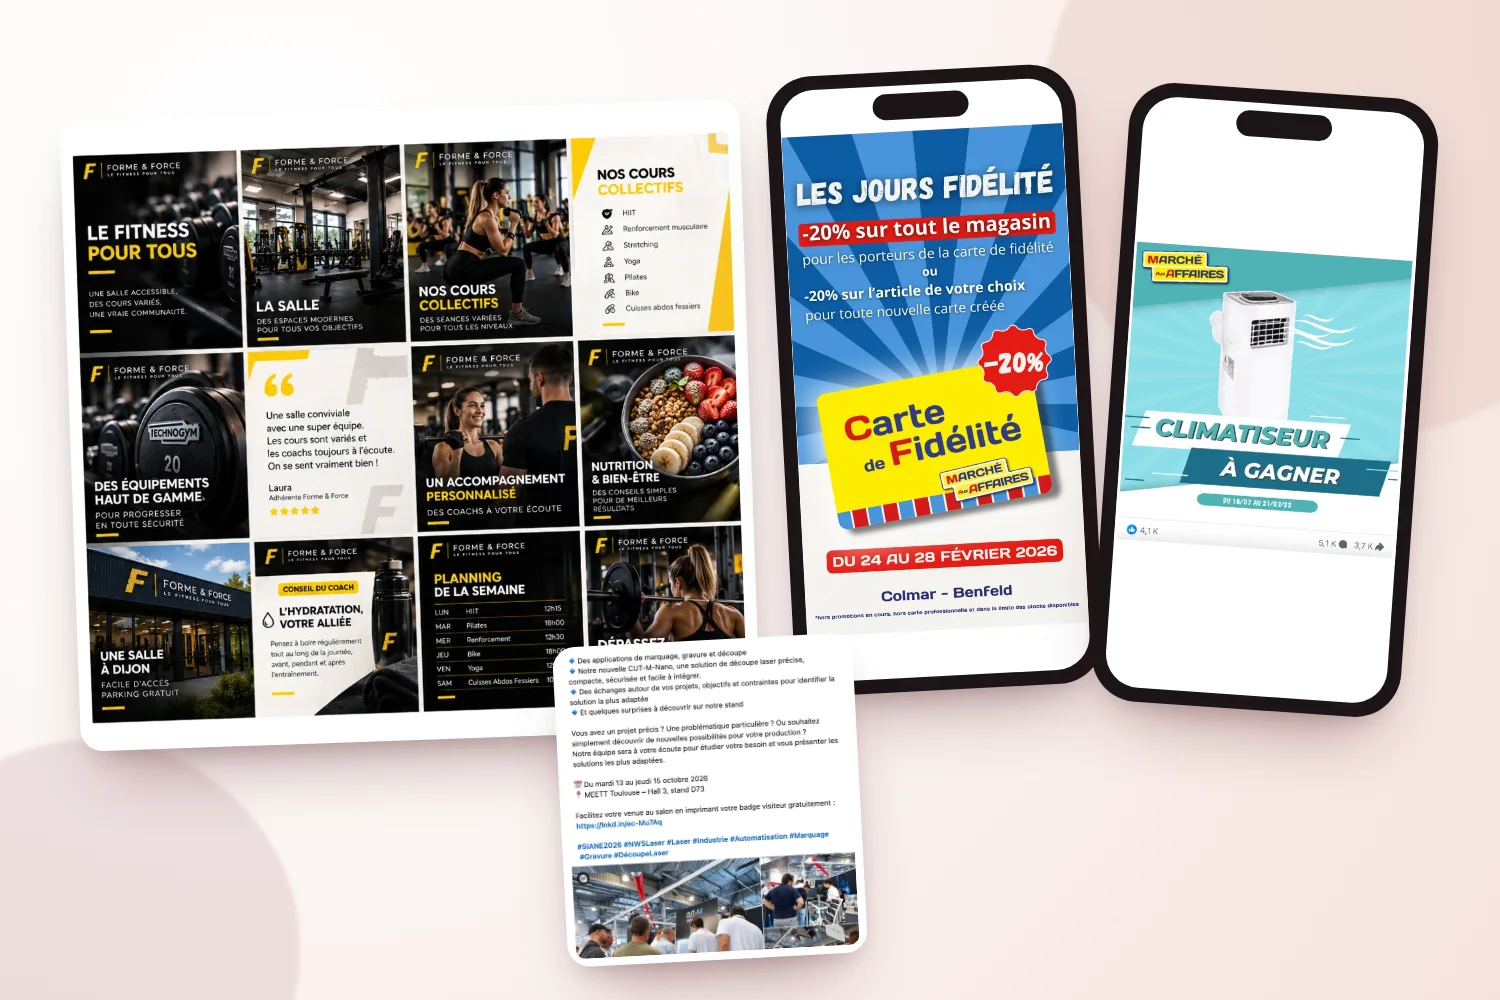
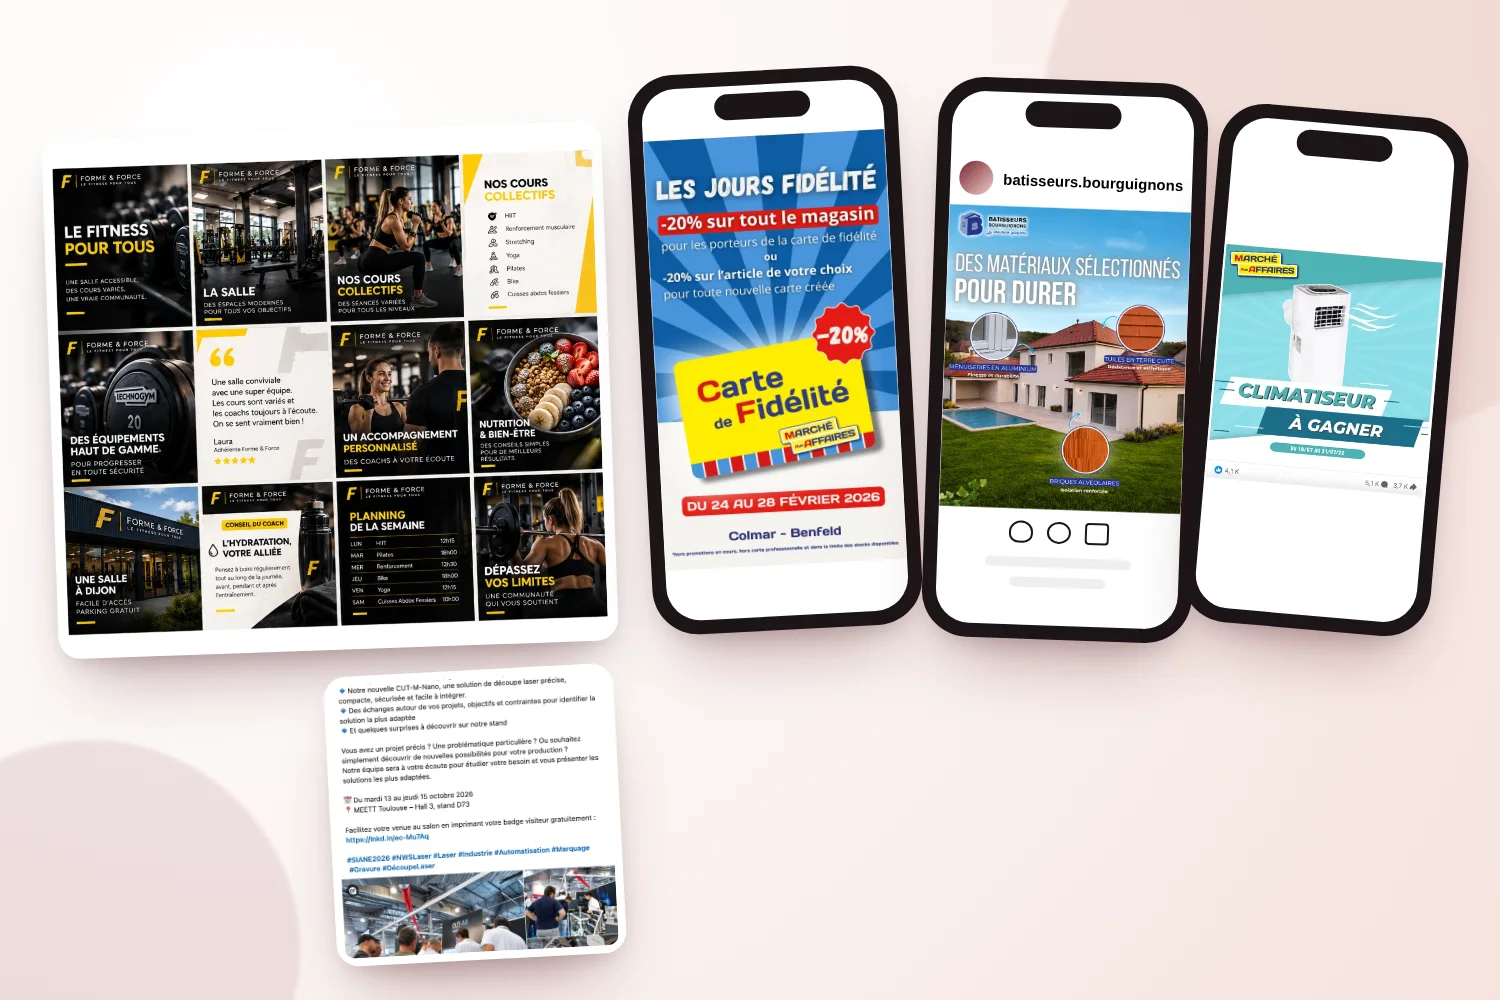
Campagnes : encart presse, flyer et Google Ads ; post Bâtisseurs dans Réseaux sociaux
Claude-Session: https://claude.ai/code/session_01ChKnf7MBQ7UGRg99UEPnwq

diff --git a/index.html b/index.html
@@ -806,7 +806,7 @@ blockquote footer b{display:block;color:var(--encre);font-weight:500;font-size:1
   <section class="bloc" id="realisations">
     <div class="wrap">
       <div class="entete-bloc"><div><p class="surtitre">Sur le terrain</p><h2>Mes missions</h2></div><p class="chapo" style="margin:0">Chaque case regroupe un type de mission. Cliquez pour voir le détail par entreprise.</p></div>
-      <div class="mosaique"><button class="projet" type="button" data-projet="social"><span class="plus-ico" aria-hidden="true">+</span><div class="visuel img"><picture><source media="(max-width:600px)" srcset="img/missions/mission-reseaux-sociaux-m.webp"><img src="img/missions/mission-reseaux-sociaux.webp" alt="Grille Instagram de Forme &amp; Force, story et jeu-concours du Marché aux Affaires, publication LinkedIn de NWS Laser" loading="lazy"></picture></div><div class="bas"><div><span class="type-mission">Réseaux sociaux</span><h3>Contenus et animation de communauté</h3><p class="realis">Templates Instagram Forme &amp; Force · Story « Jours fidélité » et jeu-concours Marché aux Affaires · Post LinkedIn NWS Laser</p></div></div></button><button class="projet" type="button" data-projet="campagnes"><span class="plus-ico" aria-hidden="true">+</span><div class="visuel img"><picture><source media="(max-width:600px)" srcset="img/missions/mission-campagnes-m.webp"><img src="img/missions/mission-campagnes.webp" alt="Publicité Meta Ads, encart presse et flyers des Bâtisseurs Bourguignons, flyers de l&#x27;agence AXA" loading="lazy"></picture></div><div class="bas"><div><span class="type-mission">Campagnes publicitaires</span><h3>Pub digitale et print</h3><p class="realis">Publicité Meta Ads, encart presse et flyers Bâtisseurs Bourguignons · Flyers AXA</p></div></div></button><button class="projet" type="button" data-projet="site"><span class="plus-ico" aria-hidden="true">+</span><div class="visuel img"><picture><source media="(max-width:600px)" srcset="img/missions/mission-site-web-m.webp"><img src="img/missions/mission-site-web.webp" alt="Site des Bâtisseurs Bourguignons, landing page et publication sur la fiche Google" loading="lazy"></picture></div><div class="bas"><div><span class="type-mission">Site web et SEO</span><h3>Un site conçu de A à Z</h3><p class="realis">Site des Bâtisseurs Bourguignons, créé de A à Z · Landing page · Posts fiche Google · Site d&#x27;une auto-entrepreneuse</p></div></div></button><button class="projet" type="button" data-projet="evenementiel"><span class="plus-ico" aria-hidden="true">+</span><div class="visuel img"><picture><source media="(max-width:600px)" srcset="img/missions/mission-evenementiel-m.webp"><img src="img/missions/mission-evenementiel.webp" alt="Visiteurs et stand des Bâtisseurs Bourguignons, dossier du team building et affiche du salon Micronora" loading="lazy"></picture></div><div class="bas"><div><span class="type-mission">Événementiel et partenariats</span><h3>Salons et événements réseau</h3><p class="realis">Salons de l&#x27;habitat Bâtisseurs Bourguignons · Team building Marché aux Affaires · Salon Micronora NWS Laser</p></div></div></button><button class="projet" type="button" data-projet="videos"><span class="plus-ico" aria-hidden="true">+</span><div class="visuel img"><picture><source media="(max-width:600px)" srcset="img/missions/mission-videos-m.webp"><img src="img/missions/mission-videos.webp" alt="Vidéo de présentation du modèle de maison Axinite des Bâtisseurs Bourguignons" loading="lazy"></picture></div><div class="bas"><div><span class="type-mission">Vidéos</span><h3>Vidéos de présentation</h3><p class="realis">Vidéo du modèle Axinite et vidéos des réalisations Bâtisseurs Bourguignons</p></div></div></button><button class="projet" type="button" data-projet="strategie"><span class="plus-ico" aria-hidden="true">+</span><div class="visuel img"><picture><source media="(max-width:600px)" srcset="img/missions/mission-strategie-m.webp"><img src="img/missions/mission-strategie.webp" alt="Plan de communication 2026, charte graphique de Cani Positive et tableaux de statistiques" loading="lazy"></picture></div><div class="bas"><div><span class="type-mission">Stratégie et reporting</span><h3>Plans de com&#x27;, identité et résultats</h3><p class="realis">Plan de communication 2026 · Charte graphique Cani Positive · Reportings Facebook, Meta Ads et jeu-concours</p></div></div></button></div>
+      <div class="mosaique"><button class="projet" type="button" data-projet="social"><span class="plus-ico" aria-hidden="true">+</span><div class="visuel img"><picture><source media="(max-width:600px)" srcset="img/missions/mission-reseaux-sociaux-m.webp"><img src="img/missions/mission-reseaux-sociaux.webp" alt="Grille Instagram de Forme &amp; Force, story et jeu-concours du Marché aux Affaires, publication LinkedIn de NWS Laser" loading="lazy"></picture></div><div class="bas"><div><span class="type-mission">Réseaux sociaux</span><h3>Contenus et animation de communauté</h3><p class="realis">Templates Instagram Forme &amp; Force · Story « Jours fidélité » et jeu-concours Marché aux Affaires · Posts Bâtisseurs Bourguignons et NWS Laser</p></div></div></button><button class="projet" type="button" data-projet="campagnes"><span class="plus-ico" aria-hidden="true">+</span><div class="visuel img"><picture><source media="(max-width:600px)" srcset="img/missions/mission-campagnes-m.webp"><img src="img/missions/mission-campagnes.webp" alt="Encart presse « Voyage à gagner » et flyer « Votre maison sur-mesure » des Bâtisseurs Bourguignons, flyers de l&#x27;agence AXA" loading="lazy"></picture></div><div class="bas"><div><span class="type-mission">Campagnes publicitaires</span><h3>Pub digitale et print</h3><p class="realis">Encart presse et flyer Bâtisseurs Bourguignons · Flyers AXA · Campagnes Google Ads et Meta Ads</p></div></div></button><button class="projet" type="button" data-projet="site"><span class="plus-ico" aria-hidden="true">+</span><div class="visuel img"><picture><source media="(max-width:600px)" srcset="img/missions/mission-site-web-m.webp"><img src="img/missions/mission-site-web.webp" alt="Site des Bâtisseurs Bourguignons, landing page et publication sur la fiche Google" loading="lazy"></picture></div><div class="bas"><div><span class="type-mission">Site web et SEO</span><h3>Un site conçu de A à Z</h3><p class="realis">Site des Bâtisseurs Bourguignons, créé de A à Z · Landing page · Posts fiche Google · Site d&#x27;une auto-entrepreneuse</p></div></div></button><button class="projet" type="button" data-projet="evenementiel"><span class="plus-ico" aria-hidden="true">+</span><div class="visuel img"><picture><source media="(max-width:600px)" srcset="img/missions/mission-evenementiel-m.webp"><img src="img/missions/mission-evenementiel.webp" alt="Visiteurs et stand des Bâtisseurs Bourguignons, dossier du team building et affiche du salon Micronora" loading="lazy"></picture></div><div class="bas"><div><span class="type-mission">Événementiel et partenariats</span><h3>Salons et événements réseau</h3><p class="realis">Salons de l&#x27;habitat Bâtisseurs Bourguignons · Team building Marché aux Affaires · Salon Micronora NWS Laser</p></div></div></button><button class="projet" type="button" data-projet="videos"><span class="plus-ico" aria-hidden="true">+</span><div class="visuel img"><picture><source media="(max-width:600px)" srcset="img/missions/mission-videos-m.webp"><img src="img/missions/mission-videos.webp" alt="Vidéo de présentation du modèle de maison Axinite des Bâtisseurs Bourguignons" loading="lazy"></picture></div><div class="bas"><div><span class="type-mission">Vidéos</span><h3>Vidéos de présentation</h3><p class="realis">Vidéo du modèle Axinite et vidéos des réalisations Bâtisseurs Bourguignons</p></div></div></button><button class="projet" type="button" data-projet="strategie"><span class="plus-ico" aria-hidden="true">+</span><div class="visuel img"><picture><source media="(max-width:600px)" srcset="img/missions/mission-strategie-m.webp"><img src="img/missions/mission-strategie.webp" alt="Plan de communication 2026, charte graphique de Cani Positive et tableaux de statistiques" loading="lazy"></picture></div><div class="bas"><div><span class="type-mission">Stratégie et reporting</span><h3>Plans de com&#x27;, identité et résultats</h3><p class="realis">Plan de communication 2026 · Charte graphique Cani Positive · Reportings Facebook, Meta Ads et jeu-concours</p></div></div></button></div>
     </div>
   </section>
 
@@ -951,7 +951,7 @@ Bien cordialement,</textarea>
 
 <script>
 (function(){
-  var P={"social": {"client": "Réseaux sociaux", "titre": "Contenus et animation de communauté", "img": "img/missions/mission-reseaux-sociaux.webp", "imgm": "img/missions/mission-reseaux-sociaux-m.webp", "alt": "Grille Instagram de Forme & Force, story et jeu-concours du Marché aux Affaires, publication LinkedIn de NWS Laser", "mission": "Installer une prise de parole régulière qui fait grandir l'audience.", "actions": ["Forme & Force : stratégie, piliers de contenu et templates Instagram", "Marché aux Affaires : stories promotionnelles et jeu-concours", "NWS Laser : publications LinkedIn", "Agence AXA : 2 à 3 publications Facebook par semaine"], "chiffres": [["4 000+", "inscrits au jeu-concours"], ["+136 %", "de visibilité Facebook pour AXA"]], "tags": ["Instagram", "Facebook", "LinkedIn"]}, "campagnes": {"client": "Campagnes publicitaires", "titre": "Pub digitale et print", "img": "img/missions/mission-campagnes.webp", "imgm": "img/missions/mission-campagnes-m.webp", "alt": "Publicité Meta Ads, encart presse et flyers des Bâtisseurs Bourguignons, flyers de l'agence AXA", "mission": "Toucher les bons prospects, en ligne comme sur papier, avec un budget maîtrisé.", "actions": ["Bâtisseurs Bourguignons : visuels, ciblage et pilotage des campagnes Meta Ads", "Bâtisseurs Bourguignons : encart presse et flyers (offre voyage, maison sur-mesure)", "Agence AXA : flyers produits", "NWS Laser : référencement payant (SEA)"], "chiffres": [["0,18 €", "de coût par clic"]], "tags": ["Meta Ads", "SEA", "Print", "Presse"]}, "site": {"client": "Site web et SEO", "titre": "Un site conçu de A à Z", "img": "img/missions/mission-site-web.webp", "imgm": "img/missions/mission-site-web-m.webp", "alt": "Site des Bâtisseurs Bourguignons, landing page et publication sur la fiche Google", "mission": "J'ai conçu le site des Bâtisseurs Bourguignons de A à Z pour en faire un vrai outil de prospection, visible sur Google et en local.", "actions": ["Bâtisseurs Bourguignons : site conçu de A à Z (arborescence, contenus, design, SEO et référencement local), landing page et publications sur la fiche Google", "NWS Laser : site web, SEO et fiche Google", "Une auto-entrepreneuse : conception de son site internet"], "chiffres": [["≈ 20", "leads par mois via le site des Bâtisseurs"]], "tags": ["WordPress", "SEO", "Fiche Google"]}, "evenementiel": {"client": "Événementiel et partenariats", "titre": "Salons et événements réseau", "img": "img/missions/mission-evenementiel.webp", "imgm": "img/missions/mission-evenementiel-m.webp", "alt": "Visiteurs et stand des Bâtisseurs Bourguignons, dossier du team building et affiche du salon Micronora", "mission": "Créer des rendez-vous qui fédèrent et qui rapportent des contacts.", "actions": ["Marché aux Affaires : team building de 2 jours pour 300 franchisés", "Bâtisseurs Bourguignons : stands et salons de l'habitat", "NWS Laser : salons professionnels Micronora et SIANE", "Relations presse et partenariats"], "chiffres": [["300", "franchisés réunis"]], "tags": ["Événementiel", "Salons", "Partenariats"]}, "videos": {"client": "Vidéos", "titre": "Vidéos de présentation", "img": "img/missions/mission-videos.webp", "imgm": "img/missions/mission-videos-m.webp", "alt": "Vidéo de présentation du modèle de maison Axinite des Bâtisseurs Bourguignons", "mission": "Montrer les réalisations en mouvement pour donner envie de se projeter.", "actions": ["Bâtisseurs Bourguignons : vidéos de présentation des modèles de maisons", "Montage de formats courts pour les réseaux sociaux et le site"], "chiffres": [], "tags": ["Vidéo", "Montage", "CapCut"]}, "strategie": {"client": "Stratégie et reporting", "titre": "Plans de com', identité et résultats", "img": "img/missions/mission-strategie.webp", "imgm": "img/missions/mission-strategie-m.webp", "alt": "Plan de communication 2026, charte graphique de Cani Positive et tableaux de statistiques", "mission": "Définir où aller, donner une image cohérente et mesurer ce que la communication rapporte.", "actions": ["Plan de communication annuel : bilan, objectifs, budget et calendrier", "Cani Positive et Forme & Force : positionnement et identité au lancement", "NWS Laser : audit, cibles et positionnement", "Reportings : visibilité Facebook AXA, campagnes Meta Ads, bilan du jeu-concours"], "chiffres": [], "tags": ["Stratégie", "Identité", "KPI", "Reporting"]}};
+  var P={"social": {"client": "Réseaux sociaux", "titre": "Contenus et animation de communauté", "img": "img/missions/mission-reseaux-sociaux.webp", "imgm": "img/missions/mission-reseaux-sociaux-m.webp", "alt": "Grille Instagram de Forme & Force, story et jeu-concours du Marché aux Affaires, publication LinkedIn de NWS Laser", "mission": "Installer une prise de parole régulière qui fait grandir l'audience.", "actions": ["Forme & Force : stratégie, piliers de contenu et templates Instagram", "Marché aux Affaires : stories promotionnelles et jeu-concours", "Bâtisseurs Bourguignons : publications Instagram et Facebook", "NWS Laser : publications LinkedIn", "Agence AXA : 2 à 3 publications Facebook par semaine"], "chiffres": [["4 000+", "inscrits au jeu-concours"], ["+136 %", "de visibilité Facebook pour AXA"]], "tags": ["Instagram", "Facebook", "LinkedIn"]}, "campagnes": {"client": "Campagnes publicitaires", "titre": "Pub digitale et print", "img": "img/missions/mission-campagnes.webp", "imgm": "img/missions/mission-campagnes-m.webp", "alt": "Encart presse « Voyage à gagner » et flyer « Votre maison sur-mesure » des Bâtisseurs Bourguignons, flyers de l'agence AXA", "mission": "Toucher les bons prospects, en ligne comme sur papier, avec un budget maîtrisé.", "actions": ["Campagnes Google Ads (SEA) : mots-clés, annonces et suivi des performances", "Bâtisseurs Bourguignons : campagnes Meta Ads, ciblage et suivi du coût par clic", "Bâtisseurs Bourguignons : encart presse « Voyage à gagner » et flyer « Votre maison sur-mesure »", "Agence AXA : flyers produits"], "chiffres": [["0,18 €", "de coût par clic sur Meta Ads"]], "tags": ["Google Ads", "Meta Ads", "Print", "Presse"]}, "site": {"client": "Site web et SEO", "titre": "Un site conçu de A à Z", "img": "img/missions/mission-site-web.webp", "imgm": "img/missions/mission-site-web-m.webp", "alt": "Site des Bâtisseurs Bourguignons, landing page et publication sur la fiche Google", "mission": "J'ai conçu le site des Bâtisseurs Bourguignons de A à Z pour en faire un vrai outil de prospection, visible sur Google et en local.", "actions": ["Bâtisseurs Bourguignons : site conçu de A à Z (arborescence, contenus, design, SEO et référencement local), landing page et publications sur la fiche Google", "NWS Laser : site web, SEO et fiche Google", "Une auto-entrepreneuse : conception de son site internet"], "chiffres": [["≈ 20", "leads par mois via le site des Bâtisseurs"]], "tags": ["WordPress", "SEO", "Fiche Google"]}, "evenementiel": {"client": "Événementiel et partenariats", "titre": "Salons et événements réseau", "img": "img/missions/mission-evenementiel.webp", "imgm": "img/missions/mission-evenementiel-m.webp", "alt": "Visiteurs et stand des Bâtisseurs Bourguignons, dossier du team building et affiche du salon Micronora", "mission": "Créer des rendez-vous qui fédèrent et qui rapportent des contacts.", "actions": ["Marché aux Affaires : team building de 2 jours pour 300 franchisés", "Bâtisseurs Bourguignons : stands et salons de l'habitat", "NWS Laser : salons professionnels Micronora et SIANE", "Relations presse et partenariats"], "chiffres": [["300", "franchisés réunis"]], "tags": ["Événementiel", "Salons", "Partenariats"]}, "videos": {"client": "Vidéos", "titre": "Vidéos de présentation", "img": "img/missions/mission-videos.webp", "imgm": "img/missions/mission-videos-m.webp", "alt": "Vidéo de présentation du modèle de maison Axinite des Bâtisseurs Bourguignons", "mission": "Montrer les réalisations en mouvement pour donner envie de se projeter.", "actions": ["Bâtisseurs Bourguignons : vidéos de présentation des modèles de maisons", "Montage de formats courts pour les réseaux sociaux et le site"], "chiffres": [], "tags": ["Vidéo", "Montage", "CapCut"]}, "strategie": {"client": "Stratégie et reporting", "titre": "Plans de com', identité et résultats", "img": "img/missions/mission-strategie.webp", "imgm": "img/missions/mission-strategie-m.webp", "alt": "Plan de communication 2026, charte graphique de Cani Positive et tableaux de statistiques", "mission": "Définir où aller, donner une image cohérente et mesurer ce que la communication rapporte.", "actions": ["Plan de communication annuel : bilan, objectifs, budget et calendrier", "Cani Positive et Forme & Force : positionnement et identité au lancement", "NWS Laser : audit, cibles et positionnement", "Reportings : visibilité Facebook AXA, campagnes Meta Ads, bilan du jeu-concours"], "chiffres": [], "tags": ["Stratégie", "Identité", "KPI", "Reporting"]}};
   var d=document.getElementById('fenetre');
   function el(id){return document.getElementById(id)}
   function txt(t,tag){var e=document.createElement(tag);e.textContent=t;return e}
